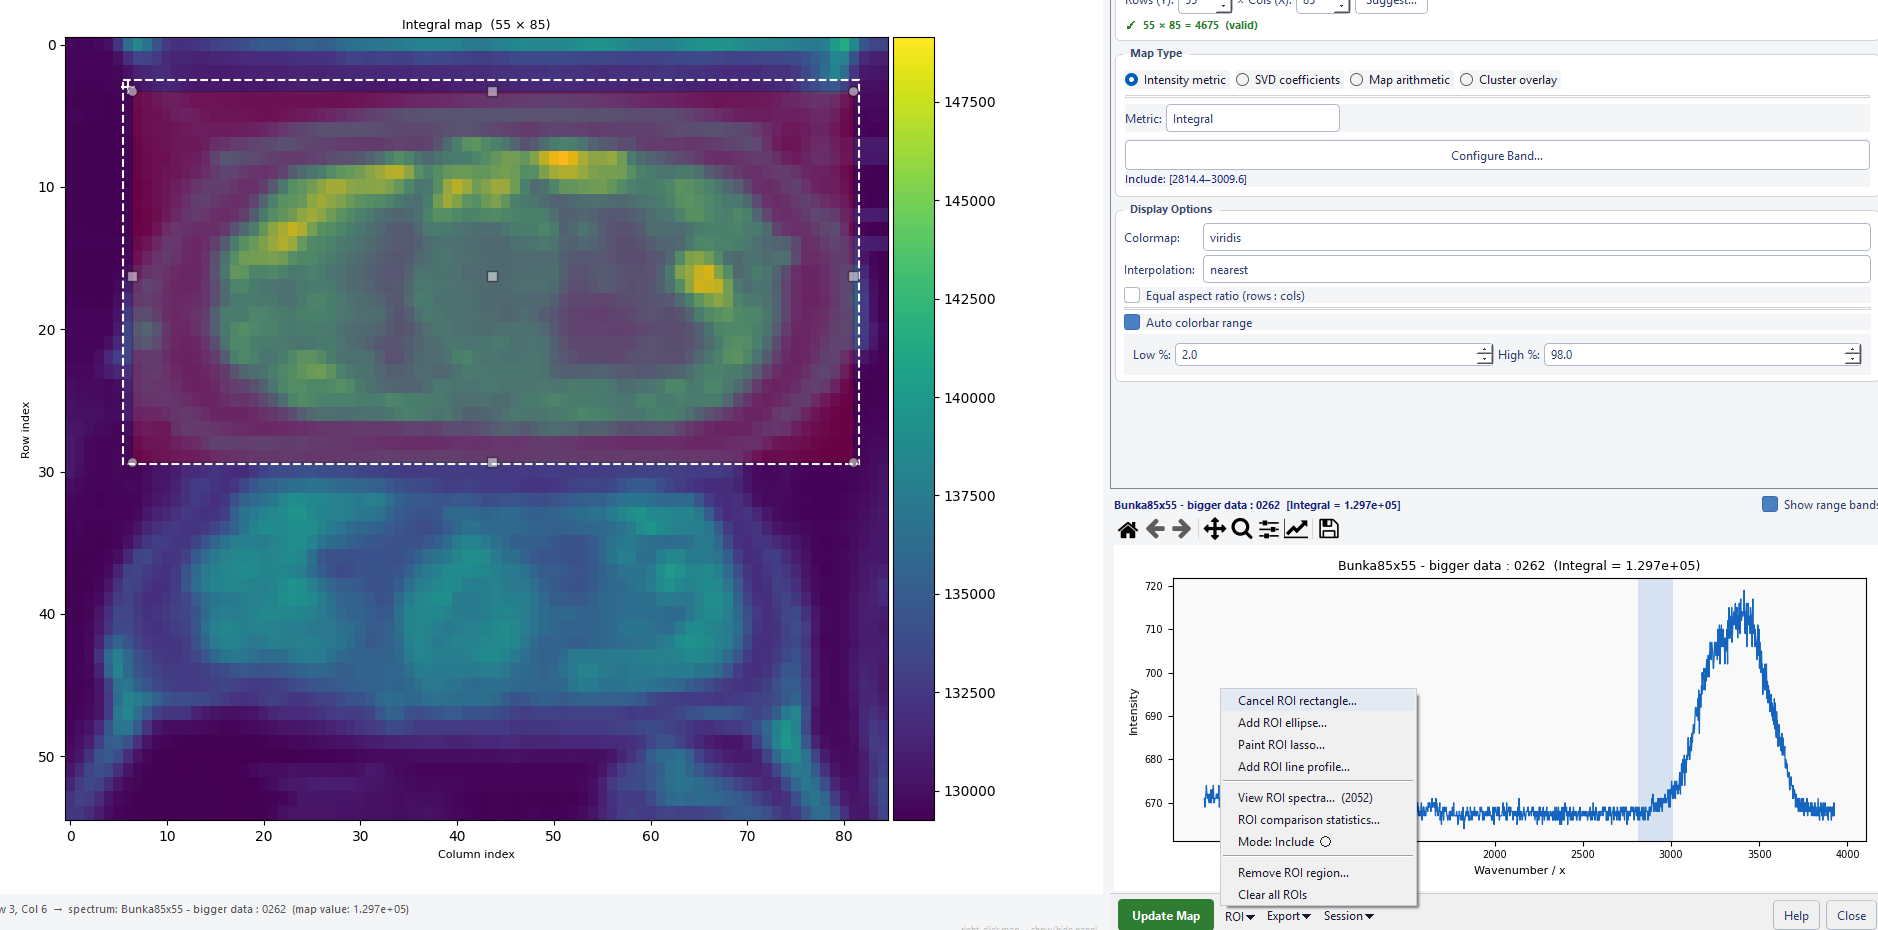
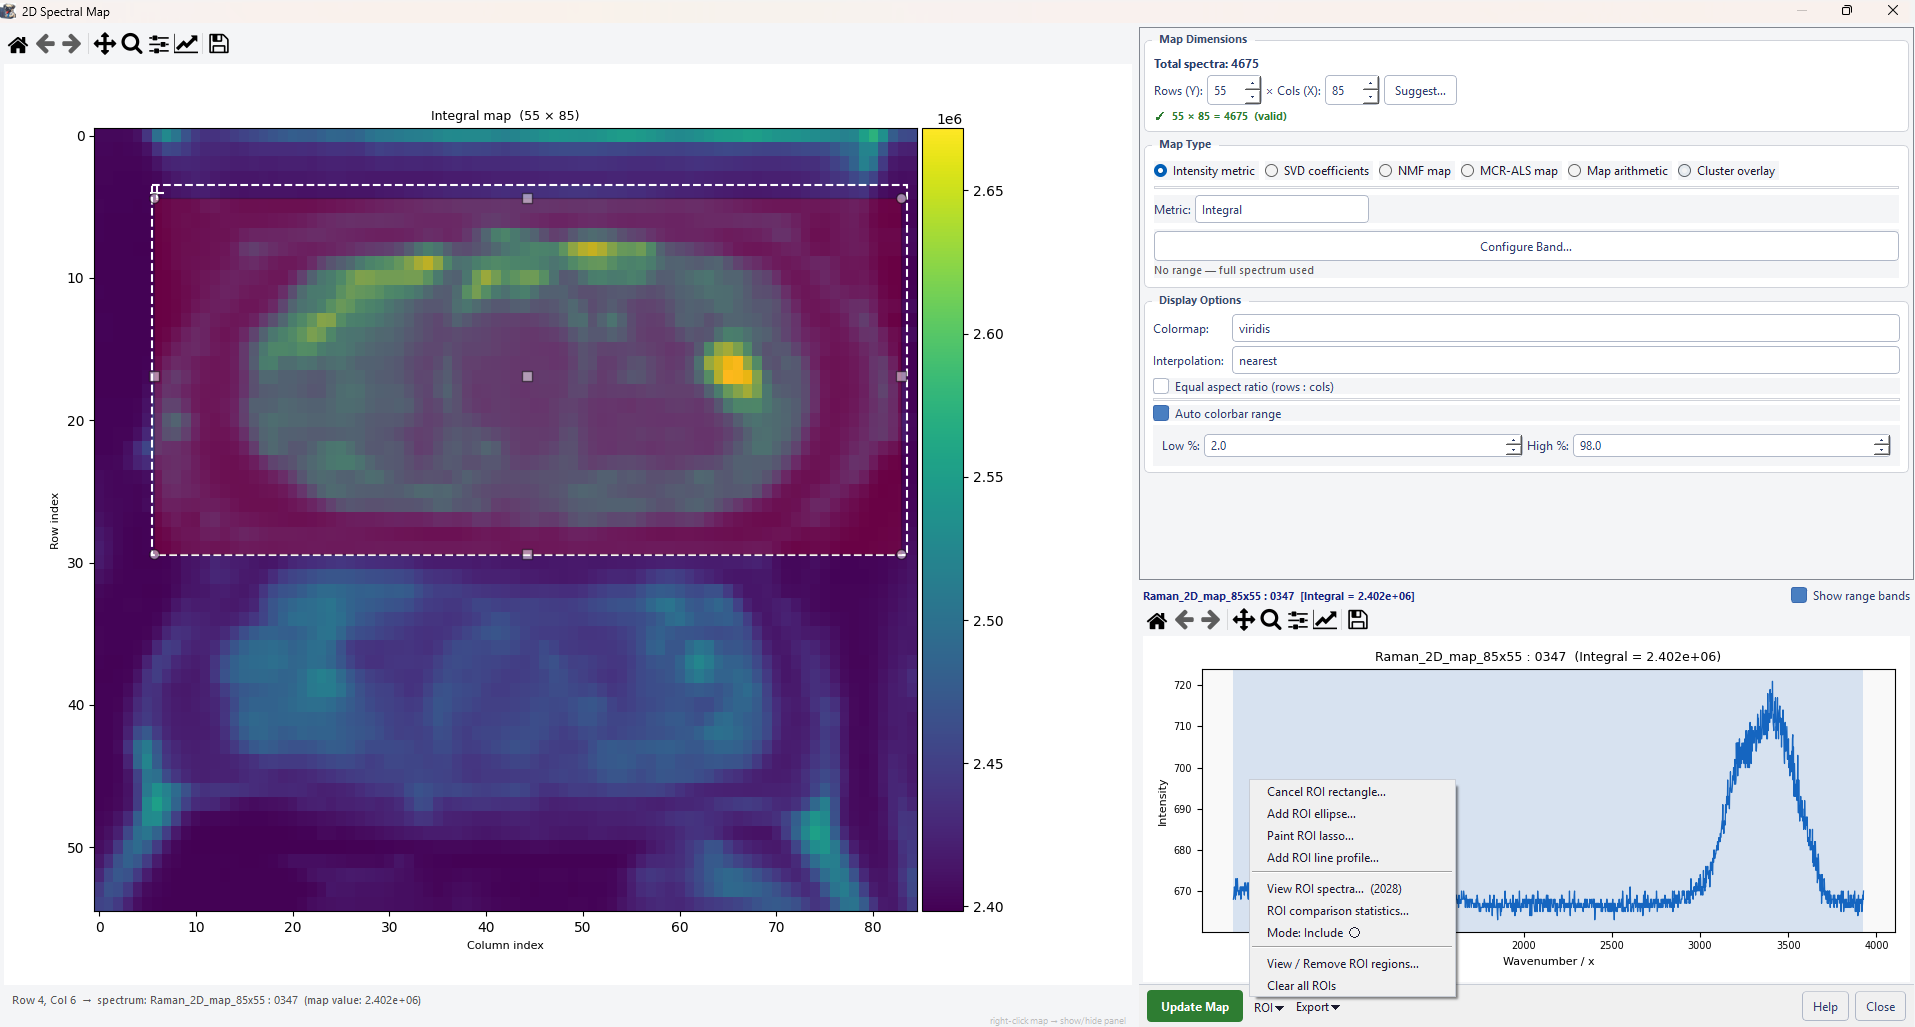
Update 2D Map / import / quick start / user guide help and screenshots
Documents the NMF/MCR-ALS map feature: fit-control settings, click-to-
pick reference spectra (with the View button and hover preview), the
stale-reference warning and auto-recompute option, and the removed
session save/load feature. Adds new screenshots for the NMF/MCR-ALS map
type, spectrum panel, and reference-spectra groupbox, and refreshes the
existing 2D Map screenshots to match the dialog's current layout.

diff --git a/src/help/map2d_help.py b/src/help/map2d_help.py
@@ -25,6 +25,10 @@ _SCREENSHOT_FILES = {
     "TYPE_SVD":            "map_type_svd.png",
     "SVD_SPECTRUM_PANEL":  "svd_spectrum_panel.png",
     "SVD_FULL_RANGE":      "svd_full_spectrum_range.png",
+    "TYPE_NMF":            "map_type_nmf.png",
+    "TYPE_MCR":            "map_type_mcr.png",
+    "NMF_MCR_SPECTRUM_PANEL": "nmf_mcr_spectrum_panel.png",
+    "REF_SPECTRA_PANEL":   "ref_spectra_panel.png",
     "TYPE_CLUSTER":        "map_type_cluster.png",
     "CLUSTER_MAP_RESULT":  "cluster_map_result.png",
     "CONFIGURE_RANGE":     "configure_range_dialog.png",
@@ -35,7 +39,6 @@ _SCREENSHOT_FILES = {
     "ROI_RECTANGLE":       "roi_drawn_rectangle.png",
     "ROI_COMPARISON":      "roi_comparison_stats.png",
     "ROI_VIEWER":          "roi_spectra_viewer.png",
-    "SESSION_MENU":        "session_menu.png",
 }
 
 # Cap displayed screenshot width at this many pixels — see
@@ -137,7 +140,19 @@ the 2D Map — the map uses whatever spectra you pass in as-is.
 A green tick appears when the product is valid; a red message shows
 the discrepancy otherwise. Spectra are placed row-by-row (C order).</p>
 <p>The map redraws automatically as soon as valid dimensions are entered
-(for all modes except SVD).</p>
+(for Intensity, Map arithmetic and Cluster overlay — SVD, NMF and
+MCR-ALS still need <b>Update Map</b> pressed explicitly).</p>
+
+<div class="note">
+If every selected spectrum carries the map's own row/col size (true for
+MAT/WITec map imports — see the 2D Map help section of the Import dialog),
+the dialog reads it automatically: Rows × Cols are filled in and the map
+is drawn as soon as the dialog opens, with no need to enter dimensions or
+use Suggest… at all. This only happens once, at startup — changing
+settings afterward (e.g. switching to NMF) still needs Update Map pressed
+as usual. A plain text/column-format map import doesn't carry this
+information, so it falls back to the manual entry described below.
+</div>
 
 <div class="screenshot">
     <img src="$MAP_DIMENSIONS" width="$MAP_DIMENSIONS_W" height="$MAP_DIMENSIONS_H" alt="Map Dimensions group: Rows x Cols spinboxes and validity message" />
@@ -271,6 +286,142 @@ available here.</p>
 <div class="screenshot">
     <img src="$SVD_FULL_RANGE" width="$SVD_FULL_RANGE_W" height="$SVD_FULL_RANGE_H" alt="Full spectrum view with the SVD computation range shaded and excluded sub-range hatched" />
     <p class="caption">"Full spectrum" checked: the full input spectrum is shown, with the SVD computation range shaded (solid) and an excluded sub-range hatched.</p>
+</div>
+</div>
+
+<h3>◉ NMF map / MCR-ALS map</h3>
+<div class="cat">
+<p>Two further spatial decomposition modes, alongside SVD: <b>NMF map</b> runs
+Non-negative Matrix Factorization and <b>MCR-ALS map</b> runs Multivariate
+Curve Resolution — Alternating Least Squares, on the range-filtered spectra.
+Both reuse this app's existing NMF Analysis / MCR-ALS tools internally, so
+results match what those standalone tools would produce for the same
+spectra and settings.</p>
+
+<div class="screenshot">
+    <img src="$TYPE_NMF" width="$TYPE_NMF_W" height="$TYPE_NMF_H" alt="Map Type panel with NMF map selected" />
+    <p class="caption">Map Type panel in NMF map mode: Components spinner, Component selector, and Configure NMF range&hellip; button.</p>
+</div>
+
+<div class="screenshot">
+    <img src="$TYPE_MCR" width="$TYPE_MCR_W" height="$TYPE_MCR_H" alt="Map Type panel with MCR-ALS map selected" />
+    <p class="caption">Map Type panel in MCR-ALS map mode: Components spinner, Component selector, and Configure MCR-ALS range&hellip; button.</p>
+</div>
+
+<p>Unlike SVD (which yields every component from a single fit), NMF and
+MCR-ALS need the number of components chosen <i>before</i> fitting. A
+<b>Components</b> spinner (2–20, capped by the number of spectra in the map)
+shares a row with the component selector in these two modes — set it, then press
+<b>Update Map</b> to fit and show component 1. Changing it requires pressing
+<b>Update Map</b> again; browsing already-fitted components with the
+<b>Component</b> dropdown does not.</p>
+
+<p>Configure the spectral range used for the fit with <b>Configure NMF
+range…</b> / <b>Configure MCR-ALS range…</b> — the same restrict-to-region
+mechanism as SVD's <b>Configure SVD range…</b>. The <b>Component</b> dropdown's
+label is always <b>Explained var.(%)</b> in these two modes (σ and Residual
+error, meaningful only for SVD, aren't offered).</p>
+
+<p>Below the Components spinner, each mode shows its own fit-control
+settings — previously fixed at the standalone tools' defaults, now
+adjustable here too:</p>
+<ul>
+  <li><b>NMF map</b> — <b>Init.</b> (nndsvda / nndsvd) and <b>Max iter.</b>,
+      same meaning as the standalone NMF Analysis tool's Initialisation and
+      Max iterations fields.</li>
+  <li><b>MCR-ALS map</b> — <b>Max iter.</b>, plus the three constraint
+      checkboxes from the standalone MCR-ALS tool: <b>Non-neg. C</b>
+      (non-negative concentrations), <b>Non-neg. ST</b> (non-negative pure
+      spectra), and <b>Closure</b> (concentrations sum to 100% per pixel —
+      same caveat as the standalone tool: only turn this on if the system
+      genuinely has closure).</li>
+</ul>
+
+<p><b>Run N times, keep best…</b> does the same job as <b>Update
+Map</b> — both (re)compute the map from the current settings — but
+instead of one deterministic fit, it re-fits several times with
+different random starting points and keeps whichever run best
+represents the near-best group, the same robustness check as the
+standalone tools' button of the same name. Every run refits every
+pixel in the map, so this can take noticeably longer than a single
+<b>Update Map</b> press on a large map; there's a wait cursor but no
+live progress or cancel button while it runs.</p>
+
+<div class="note">
+<b>Reference spectra (optional)</b> anchors a component slot to a known
+component spectrum — the most effective way to remove NMF/MCR-ALS's
+rotational ambiguity. Unlike the standalone tools' dropdown list (fine
+for a handful of spectra, unusable for a map's hundreds or thousands of
+pixels), a reference here is picked by clicking its pixel directly on
+the map: press <b>Pick on map…</b> next to a component row — it turns
+green and relabels itself <b>Click the map…</b> while armed, so it's
+obvious which mode you're in — then click the pixel whose spectrum
+should anchor that component (the same click-a-pixel gesture used
+everywhere else in this dialog; pressing the button again cancels
+without picking). While a row is armed this way, hovering the map also
+shows a small preview of the spectrum under the cursor, to help judge
+where to click before committing. Each picked pixel is marked on the
+map with a numbered yellow circle matching its component number;
+<b>View</b> re-opens that spectrum in its own plot at any time, and the
+red <b>X</b> button clears the row. This also works a little
+differently than in the standalone tools in one respect: there, a
+picked reference can be excluded from the fitted data ("References are
+external"); here it always stays part of the fit, because removing a
+pixel would leave fewer spectra than Rows &times; Cols, breaking the
+map's fixed grid. <b>Hold references fixed</b> still works the same
+way — checked pins the component to the reference exactly; unchecked
+uses it only as a starting guess.
+</div>
+
+<div class="note">
+Picking, clearing, or fixing a reference after a map is already
+displayed does <i>not</i> recompute it automatically — refitting
+every pixel on every click would be disruptive on a large map. Instead
+a small orange note appears (<i>"References changed — press 'Update
+Map' to apply."</i>) while the map itself stays exactly as it was, so
+nothing is hidden while you decide when to recompute. Check
+<b>Auto-recompute when references change</b> to switch to the
+opposite behaviour instead — every such change recomputes right away,
+no reminder needed, at the cost of a full refit on every pick, clear,
+or fixed-reference toggle.
+</div>
+
+<div class="screenshot">
+    <img src="$REF_SPECTRA_PANEL" width="$REF_SPECTRA_PANEL_W" height="$REF_SPECTRA_PANEL_H" alt="Reference spectra groupbox showing an armed pick button, numbered markers, and the View/X buttons" />
+    <p class="caption">Reference spectra groupbox: one row armed for picking (green <b>Click the map…</b>), one already picked with its <b>View</b> and red <b>X</b> buttons enabled, and the corresponding numbered markers on the map.</p>
+</div>
+
+<p>After a fit, a status line below these controls reports <b>Lack of
+fit</b> and the iteration count (and, after "Run N times, keep best…",
+the consensus among the near-best runs) — the same fit-quality figures
+the standalone tools show next to their Run button.</p>
+
+<div class="note">
+NMF and MCR-ALS components are constrained non-negative (MCR-ALS enforces
+this by default on both the concentration profiles and the pure spectra;
+NMF is non-negative by construction), so a sign flip would produce a result
+the algorithm itself forbids. For this reason <b>Invert</b>, <b>Multi-map…</b>
+and <b>Diagnostics…</b> — all SVD-specific — are hidden in these two modes.
+</div>
+
+<div class="note">
+As with SVD, all spectra must share the same x-axis — the fit combines
+every spectrum into one problem, which only means anything if they're all
+on the same wavenumber grid. A mismatch refuses with a message naming the
+mismatched spectrum. Use the Data Range operation (with linearisation) to
+put them on a common axis first.
+</div>
+
+<p>The spectrum panel works exactly as in SVD mode: click a pixel to compare
+its spectrum against the fitted component, and <b>Full spectrum</b> toggles
+between the clipped fit-range view and the full input spectrum with the fit
+range shaded. The overlay checkbox relabels itself to name whichever kind is
+active — <b>Show NMF component</b> or <b>Show MCR-ALS component</b> — but
+otherwise behaves identically to <b>Show SVD component</b> above.</p>
+
+<div class="screenshot">
+    <img src="$NMF_MCR_SPECTRUM_PANEL" width="$NMF_MCR_SPECTRUM_PANEL_W" height="$NMF_MCR_SPECTRUM_PANEL_H" alt="Spectrum panel in NMF/MCR-ALS mode comparing the clicked spectrum against the component" />
+    <p class="caption">Clicked pixel's spectrum (blue, left axis) compared against the NMF or MCR-ALS component (orange dashed, right axis), same as SVD mode.</p>
 </div>
 </div>
 
@@ -516,21 +667,6 @@ they work regardless of whether spectra share an axis.
 </div>
 
 <hr>
-<h2>7 — Session Save / Load</h2>
-
-<div class="cat">
-<p>Use the <b>Session ▾</b> menu to save and restore the complete state of
-the 2D Map dialog, including map dimensions, SVD arrays, ROI regions,
-display settings, and all range configurations. Sessions are stored as
-JSON files.</p>
-
-<div class="screenshot">
-    <img src="$SESSION_MENU" width="$SESSION_MENU_W" height="$SESSION_MENU_H" alt="Session dropdown menu expanded" />
-    <p class="caption">The Session ▾ menu, expanded.</p>
-</div>
-</div>
-
-<hr>
 <h2>Typical workflows</h2>
 
 <div class="cat">
@@ -565,6 +701,21 @@ JSON files.</p>
   <li>Use <b>Invert</b> if the map appears upside-down.</li>
   <li>Use <b>Diagnostics…</b> to inspect singular values and find the noise floor.</li>
   <li>Use <b>Multi-map…</b> to compare several components side-by-side.</li>
+</ol>
+</div>
+
+<div class="cat">
+<h3>NMF / MCR-ALS component map</h3>
+<ol>
+  <li>Apply baseline correction and normalisation beforehand if desired.</li>
+  <li>Switch to <b>NMF map</b> or <b>MCR-ALS map</b>.</li>
+  <li>Set <b>Components</b> to how many you expect (start with 2–4).</li>
+  <li>Optionally configure the fit range via <b>Configure NMF/MCR-ALS range…</b>.</li>
+  <li>Press <b>Update Map</b> to fit and show component 1.</li>
+  <li>Browse components in the dropdown to find chemically meaningful ones.</li>
+  <li>If a component looks noisy or redundant, refit with a different
+      <b>Components</b> count rather than looking for an Invert-style fix —
+      NMF/MCR-ALS components are non-negative by construction.</li>
 </ol>
 </div>
 

diff --git a/src/help/import_help.py b/src/help/import_help.py
@@ -467,10 +467,11 @@ def get_import_help_content():
         (that spectrum's own position in it), and — when the file recorded
         physical spacing — <code>spatial_x</code> / <code>spatial_y</code> in
         <code>spatial_unit</code>. This is what lets the map's spatial
-        structure be reconstructed afterwards — for instance, entering the
-        same <code>map_n_rows</code> &times; <code>map_n_cols</code> into the
-        <b>2-D Map</b> dialog reshapes the imported spectra back into the
-        original spatial grid for visualization.
+        structure be reconstructed afterwards — the <b>2-D Map</b> dialog
+        reads <code>map_n_rows</code> &times; <code>map_n_cols</code> straight
+        from the imported spectra and fills them in automatically, reshaping
+        back into the original spatial grid for visualization with no manual
+        dimension entry needed.
     </p>
     <div class="warning">
         Support for this format was built and verified against real

diff --git a/src/help/user_guide_help.py b/src/help/user_guide_help.py
@@ -1630,8 +1630,10 @@ def get_user_guide_help_content():
         <h3 id="2d-map">2D Spectral Map <a href="help://map2d" style="font-size:8pt; font-weight:normal;">📖 open help</a></h3>
         
         <p>Visualises spatially-resolved spectra as a false-colour 2D map. Colour
-        can represent any band metric, SVD coefficient, or cluster label. Requires
-        spectra with spatial coordinates.</p>
+        can represent any band metric, an SVD/NMF/MCR-ALS component, or a cluster
+        label. Requires selecting exactly Rows &times; Cols spectra (laid out
+        row-by-row) &mdash; a MAT/WITec map import already carries its own
+        dimensions and fills these in automatically.</p>
 
         <h3 id="2d-correlation">2D Correlation (2D-COS) <a href="help://two_d_correlation" style="font-size:8pt; font-weight:normal;">📖 open help</a></h3>
 

diff --git a/src/help/quick_start_help.py b/src/help/quick_start_help.py
@@ -337,8 +337,8 @@ def get_quick_start_help_content():
             <tr><td>Cluster Analysis</td><td>K-Means, Hierarchical, or DBSCAN
                 clustering of your spectra</td>
                 <td><a href="help://cluster_analysis">Open help</a></td></tr>
-            <tr><td>2D Map</td><td>Heatmap view of a spectral series
-                (e.g. vs. temperature or time)</td>
+            <tr><td>2D Map</td><td>False-colour spatial map from a
+                hyperspectral Raman/IR scan &mdash; one pixel per spectrum</td>
                 <td><a href="help://map2d">Open help</a></td></tr>
             <tr><td>2D Correlation (2D-COS)</td><td>Synchronous/asynchronous
                 two-dimensional correlation spectroscopy</td>
